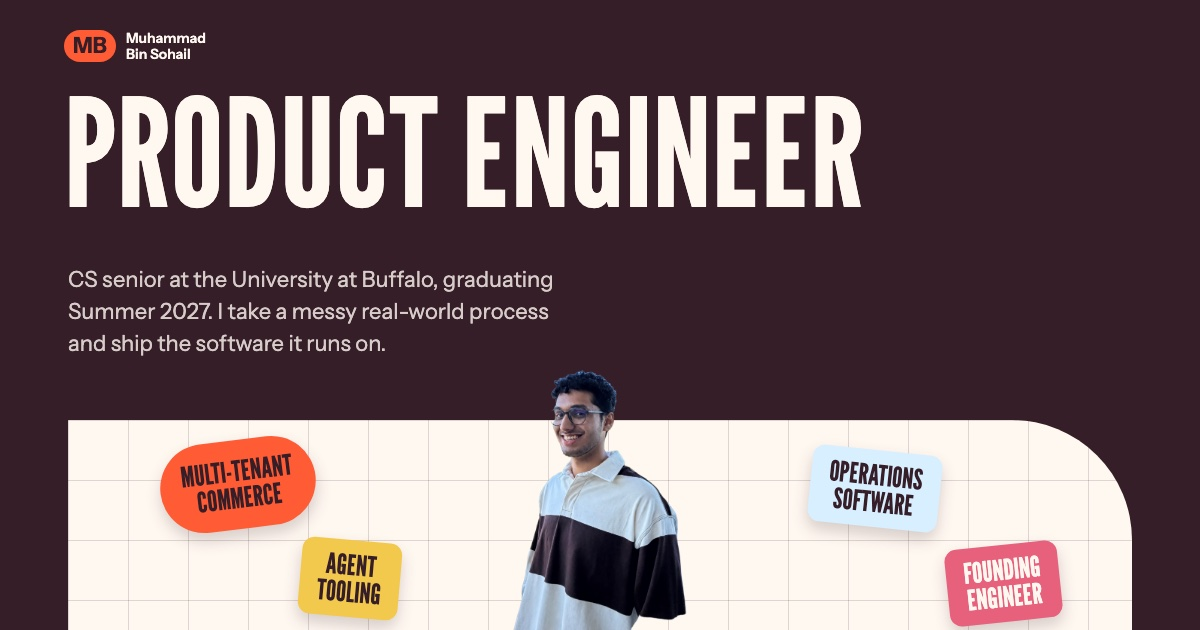
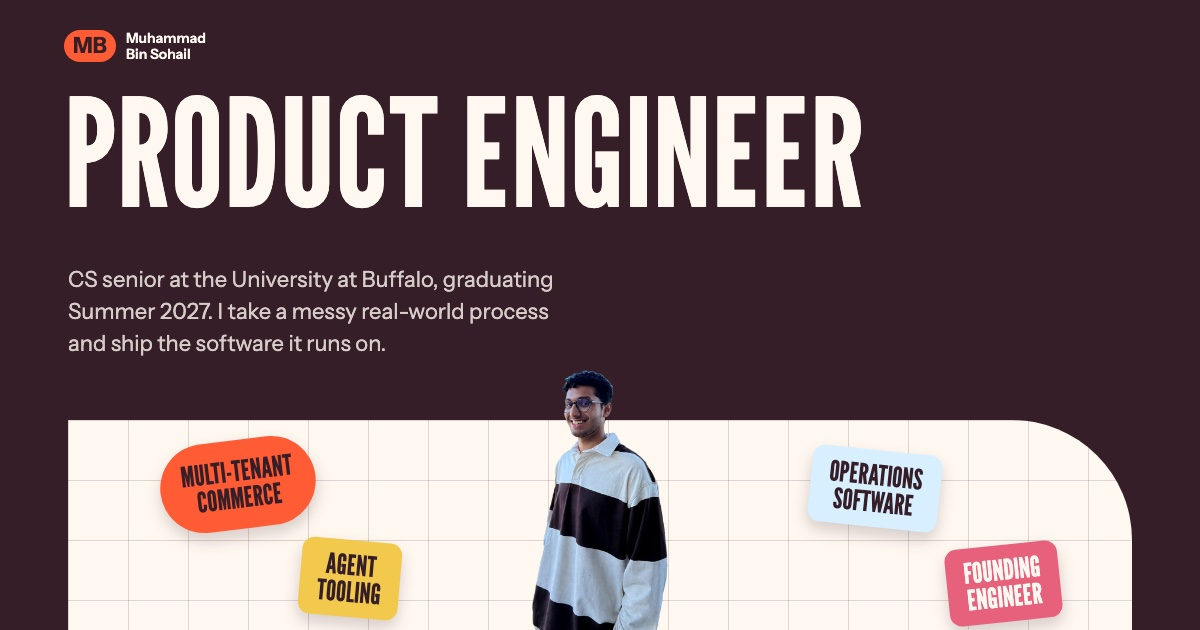
Pass 16: outpainted cutout via KIE, full arm and torso

Changed region(s): [[0.4008, 0.573, 0.5858, 1.0]]

diff --git a/site/index.html b/site/index.html
@@ -49,7 +49,7 @@
   <div class="stage-wrap">
     <div class="wrap stage-in">
       <div class="stage">
-        <img class="cut" src="assets/me-cut.webp" width="920" height="1379" alt="Muhammad Bin Sohail smiling in a cream and brown rugby shirt." fetchpriority="high">
+        <img class="cut" src="assets/me-cut.webp" width="920" height="1755" alt="Muhammad Bin Sohail smiling in a cream and brown rugby shirt." fetchpriority="high">
 
         <span class="stk stk-circle stk-1"><svg viewBox="0 0 24 24" aria-hidden="true"><circle cx="9" cy="12" r="6"/><circle cx="15" cy="12" r="6"/></svg><b>Multi-tenant<br>commerce</b><small>one catalog<br>many brands</small></span>
 

diff --git a/IMPROVEMENT-PLAN.md b/IMPROVEMENT-PLAN.md
@@ -35,6 +35,7 @@ Source of truth for claims: notes/facts.md. Research: notes/research-0*.md. Skil
 18. Hosted showcase with a brand switcher over one real app.
 
 ## Pass log
+- 2026-10-21, pass 16. Cutout redone through KIE gpt-image-2: original photo padded and outpainted so the left arm and torso complete below the waist, face and colours held, then re-cut (assets/me-cut.webp, 920x1755). Fixes the missing arm and the stripe-line crop.
 - 2026-10-21, pass 15. Cutout regenerated sharper: original photo upscaled with gpt-image-2 (restoration prompt, same face, same colours; the Flare model drifted and was rejected), cut out again, exported at 920 px wide.
 - 2026-10-21, pass 14. Product Engineer title, colour rugby-shirt cutout, breadth stickers (no tech names). See site/snapshots/pass-14/NOTES.md.
 - 2026-10-21, pass 13. Hero to the reference: MB signature mark, black and white cutout, reference-style stickers with marks and second lines, UB seal badge, stage flush with the band. See site/snapshots/pass-13/NOTES.md.
